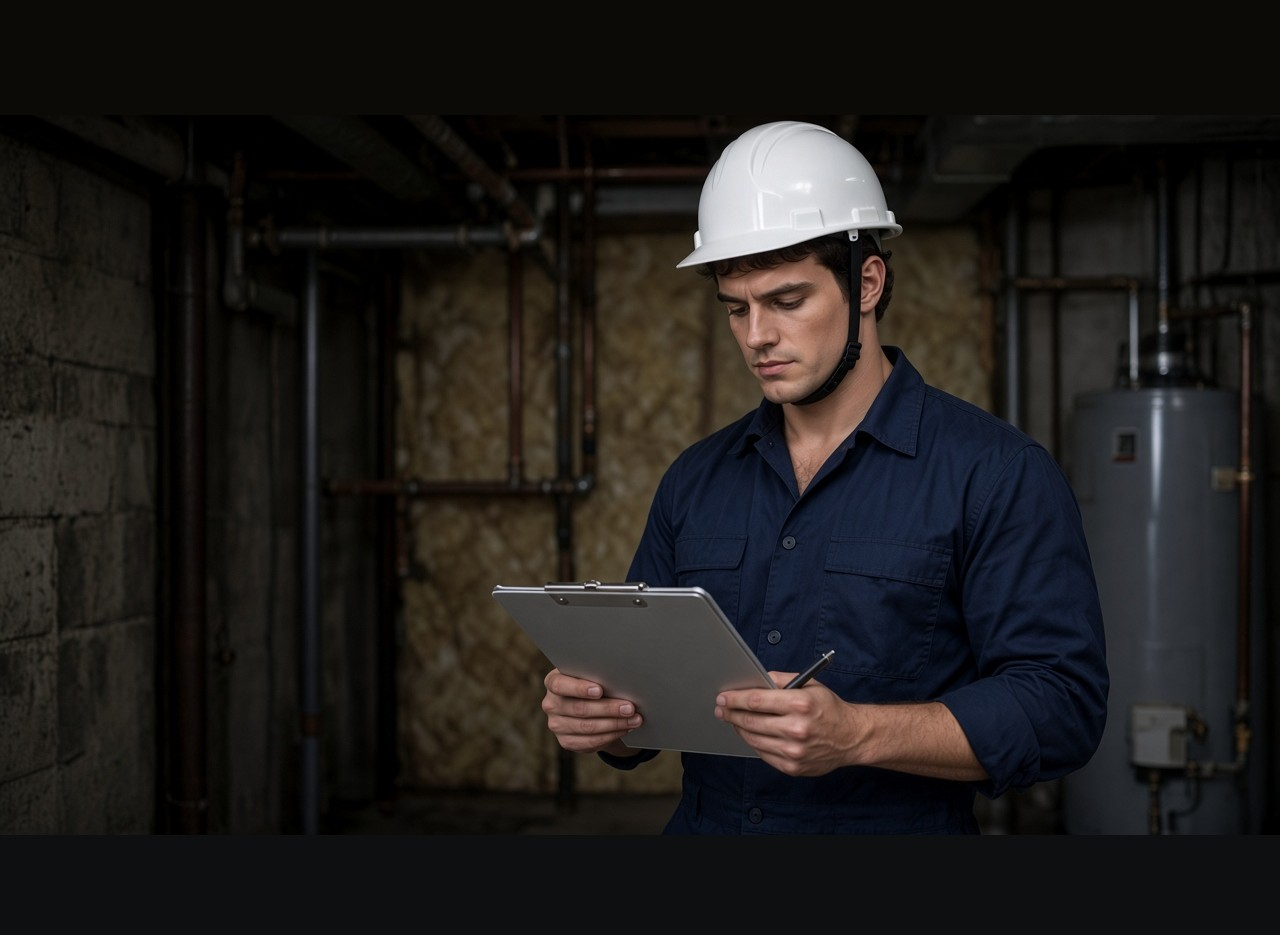
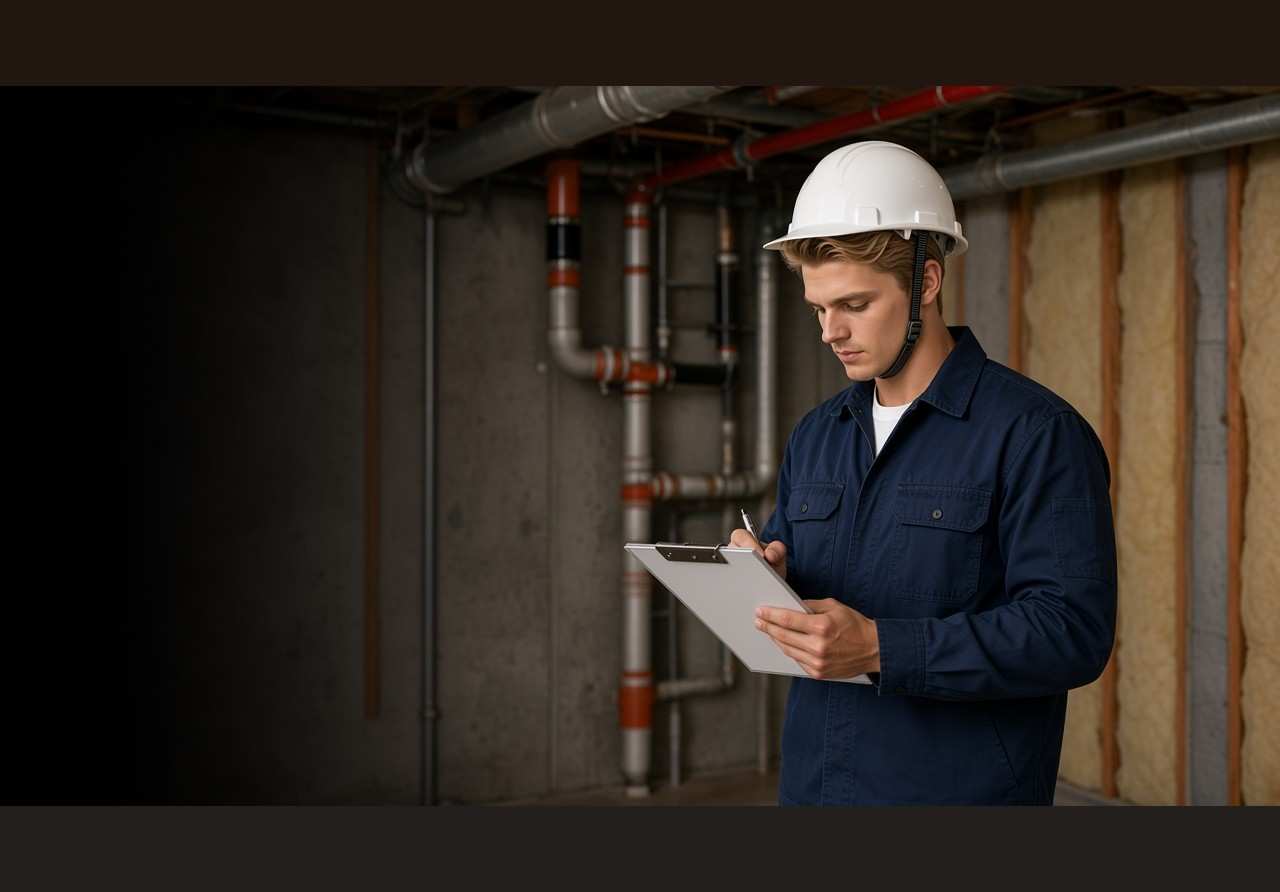
Unify FieldsLog and InspectLog cast with ClaimLog blonde lead.
Reuse the same handsome blonde clipboard model across the three field apps, with scene and wardrobe changes only.

diff --git a/inspectlog/index.html b/inspectlog/index.html
@@ -10,7 +10,7 @@
   <link rel="preconnect" href="https://fonts.googleapis.com" />
   <link rel="preconnect" href="https://fonts.gstatic.com" crossorigin />
   <link href="https://fonts.googleapis.com/css2?family=Fraunces:opsz,wght@9..144,500;9..144,600&family=Manrope:wght@400;500;600;700&display=swap" rel="stylesheet" />
-  <link rel="stylesheet" href="assets/css/styles.css?v=8" />
+  <link rel="stylesheet" href="assets/css/styles.css?v=9" />
 </head>
 <body>
   <a class="skip-link" href="#main">Skip to content</a>
@@ -33,7 +33,7 @@
   <main id="main">
     <section class="hero" aria-label="InspectLog">
       <div class="hero__banner" aria-hidden="true">
-        <img src="assets/images/banner.jpg?v=8" alt="" width="1280" height="720" />
+        <img src="assets/images/banner.jpg?v=9" alt="" width="1280" height="720" />
       </div>
       <div class="hero__veil" aria-hidden="true"></div>
       <div class="hero__content" data-reveal>

diff --git a/fieldlog/index.html b/fieldlog/index.html
@@ -10,7 +10,7 @@
   <link rel="preconnect" href="https://fonts.googleapis.com" />
   <link rel="preconnect" href="https://fonts.gstatic.com" crossorigin />
   <link href="https://fonts.googleapis.com/css2?family=Fraunces:opsz,wght@9..144,500;9..144,600&family=Manrope:wght@400;500;600;700&display=swap" rel="stylesheet" />
-  <link rel="stylesheet" href="assets/css/styles.css?v=5" />
+  <link rel="stylesheet" href="assets/css/styles.css?v=6" />
 </head>
 <body>
   <a class="skip-link" href="#main">Skip to content</a>
@@ -33,7 +33,7 @@
   <main id="main">
     <section class="hero" aria-label="FieldsLog">
       <div class="hero__banner" aria-hidden="true">
-        <img src="assets/images/banner.jpg?v=5" alt="" width="1280" height="720" />
+        <img src="assets/images/banner.jpg?v=6" alt="" width="1280" height="720" />
       </div>
       <div class="hero__veil" aria-hidden="true"></div>
       <div class="hero__content" data-reveal>
